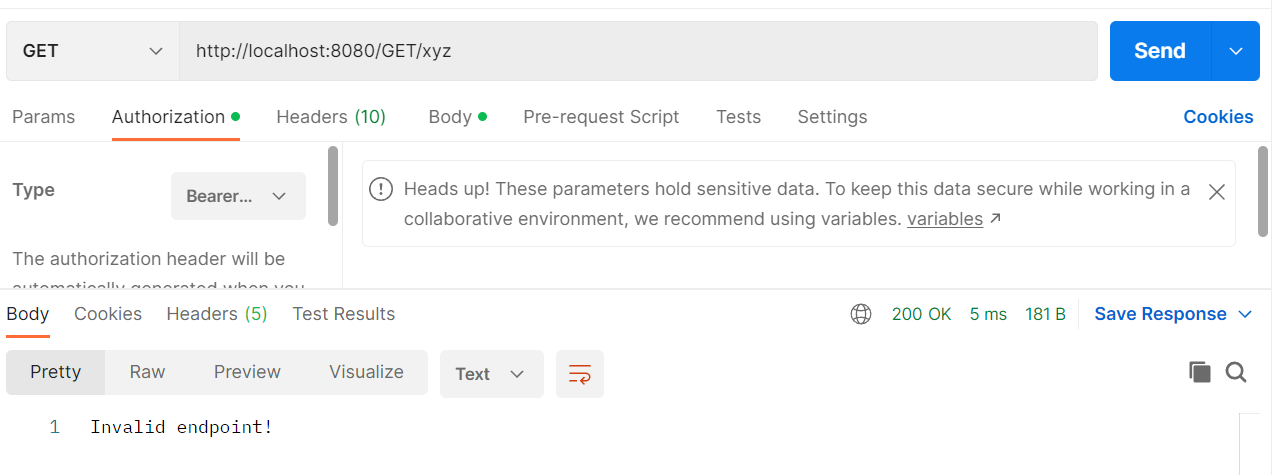
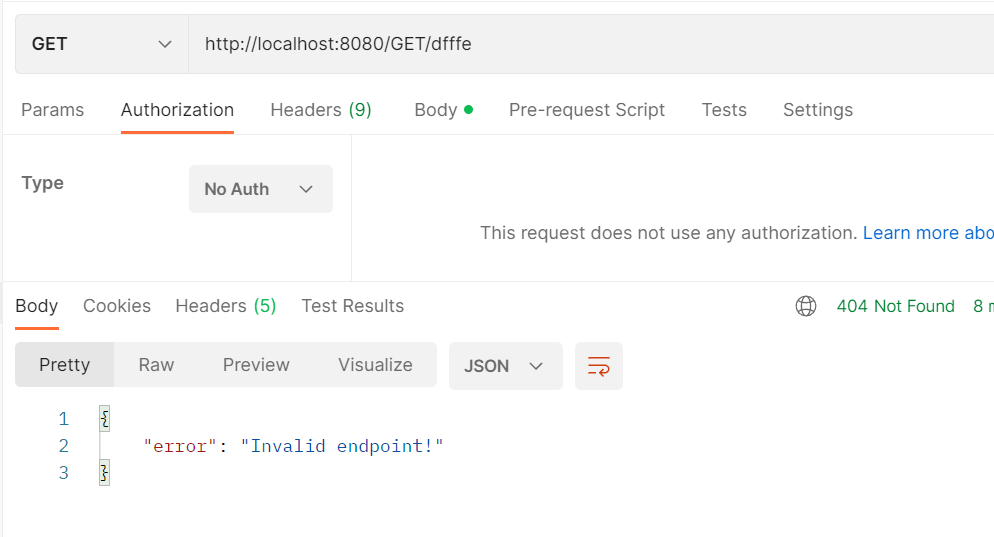
final

diff --git a/src/main/java/com/example/price/tracking/controller/GetPrice.java b/src/main/java/com/example/price/tracking/controller/GetPrice.java
@@ -1,8 +1,11 @@
 package com.example.price.tracking.controller;
 
+import com.example.price.tracking.dto.Error;
+import com.example.price.tracking.dto.PriceDto;
 import com.example.price.tracking.service.PriceImplement;
 import org.springframework.beans.factory.annotation.Autowired;
 import org.springframework.http.HttpStatus;
+import org.springframework.http.ResponseEntity;
 import org.springframework.web.bind.annotation.GetMapping;
 import org.springframework.web.bind.annotation.RequestMapping;
 import org.springframework.web.bind.annotation.ResponseStatus;
@@ -14,12 +17,19 @@ public class GetPrice {
     @Autowired
     private PriceImplement price;
     @GetMapping("/price")
-    public String getPrice(){
-        return price.getLatestPrice();
+    public ResponseEntity<?> getPrice(){
+        PriceDto priceDto=PriceDto.builder()
+                .price(price.getLatestPrice())
+                .build();
+
+        return ResponseEntity.ok().body(priceDto);
     }
 
     @RequestMapping("/**")
-    public String fallback() {
-        return "Invalid endpoint!";
+    public ResponseEntity<?> fallback() {
+        Error error=Error.builder()
+                .error("Invalid endpoint!")
+                .build();
+        return ResponseEntity.status(404).body(error);
     }
 }

diff --git a/src/main/java/com/example/price/tracking/dto/PriceDto.java b/src/main/java/com/example/price/tracking/dto/PriceDto.java
@@ -1,0 +1,11 @@
+package com.example.price.tracking.dto;
+
+import lombok.Builder;
+import lombok.Getter;
+import lombok.Setter;
+@Builder
+@Setter
+@Getter
+public class PriceDto {
+    private String price;
+}

diff --git a/src/main/java/com/example/price/tracking/dto/Error.java b/src/main/java/com/example/price/tracking/dto/Error.java
@@ -1,0 +1,11 @@
+package com.example.price.tracking.dto;
+
+import lombok.Builder;
+import lombok.Getter;
+import lombok.Setter;
+@Builder
+@Setter
+@Getter
+public class Error {
+    private String error;
+}
